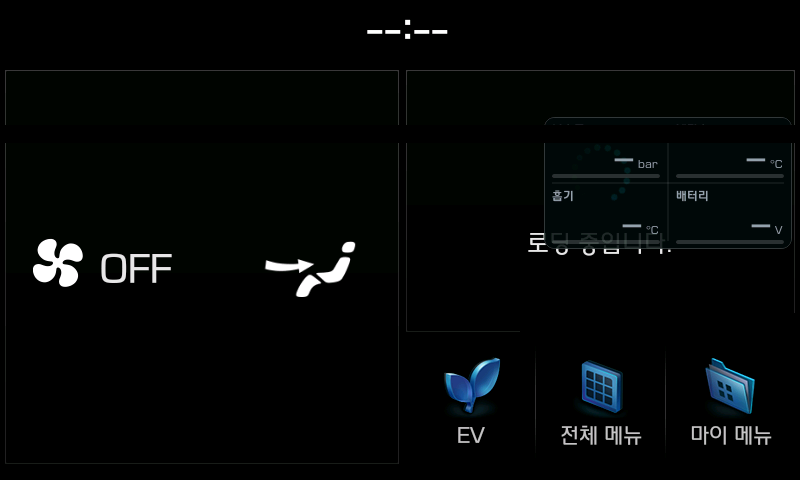
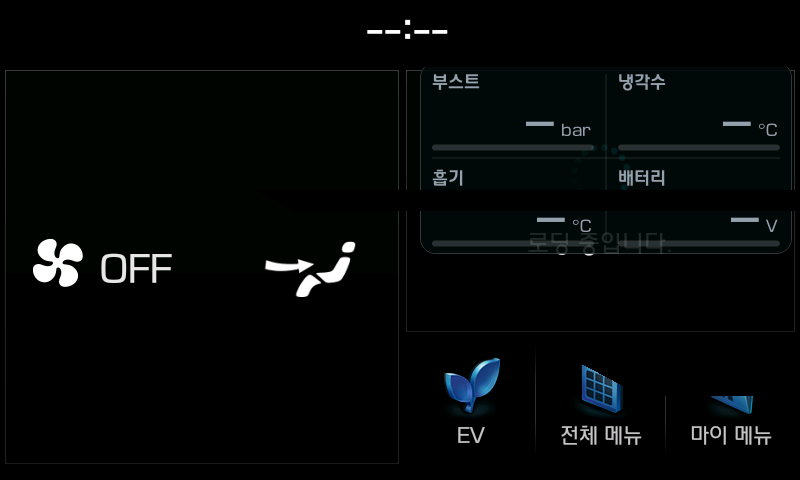
플로팅 창: placed on the whole screen (FLAG_LAYOUT_IN_SCREEN); it sat 56 px low and the bottom strip was cut off
Checked on the V141 emulator: the bottom strip (2 cells, 크게) sits whole at the bottom, the card (4 cells, 크게) top right.

diff --git a/apps/dashboard/src/com/veloster/dashboard/FloatService.java b/apps/dashboard/src/com/veloster/dashboard/FloatService.java
@@ -68,7 +68,8 @@ public final class FloatService extends Service implements Runnable {
     private void add(final int shape,final int n,final int size){
         final int w=FloatPanel.width(shape,n,size),h=FloatPanel.height(shape,n,size);final String at=shape+"_"+n+"_"+size;
         layout=new WindowManager.LayoutParams(w,h,WindowManager.LayoutParams.TYPE_PHONE,
-            WindowManager.LayoutParams.FLAG_NOT_FOCUSABLE|WindowManager.LayoutParams.FLAG_NOT_TOUCH_MODAL|WindowManager.LayoutParams.FLAG_LAYOUT_NO_LIMITS,PixelFormat.TRANSLUCENT);
+            WindowManager.LayoutParams.FLAG_NOT_FOCUSABLE|WindowManager.LayoutParams.FLAG_NOT_TOUCH_MODAL|WindowManager.LayoutParams.FLAG_LAYOUT_NO_LIMITS
+            |WindowManager.LayoutParams.FLAG_LAYOUT_IN_SCREEN,PixelFormat.TRANSLUCENT);   // x / y on the whole screen, not below the status bar (it sat 56 px low)
         layout.gravity=Gravity.TOP|Gravity.LEFT;
         layout.x=prefs().getInt("float_x_"+at,FloatPanel.defaultX(shape,n,size));layout.y=prefs().getInt("float_y_"+at,FloatPanel.defaultY(shape,n,size));
         final View v=new View(this){protected void onDraw(Canvas c){FloatPanel.draw(c,shape,n,size,VehicleDash.snapshotNow(),VehicleDash.diesel());}};
